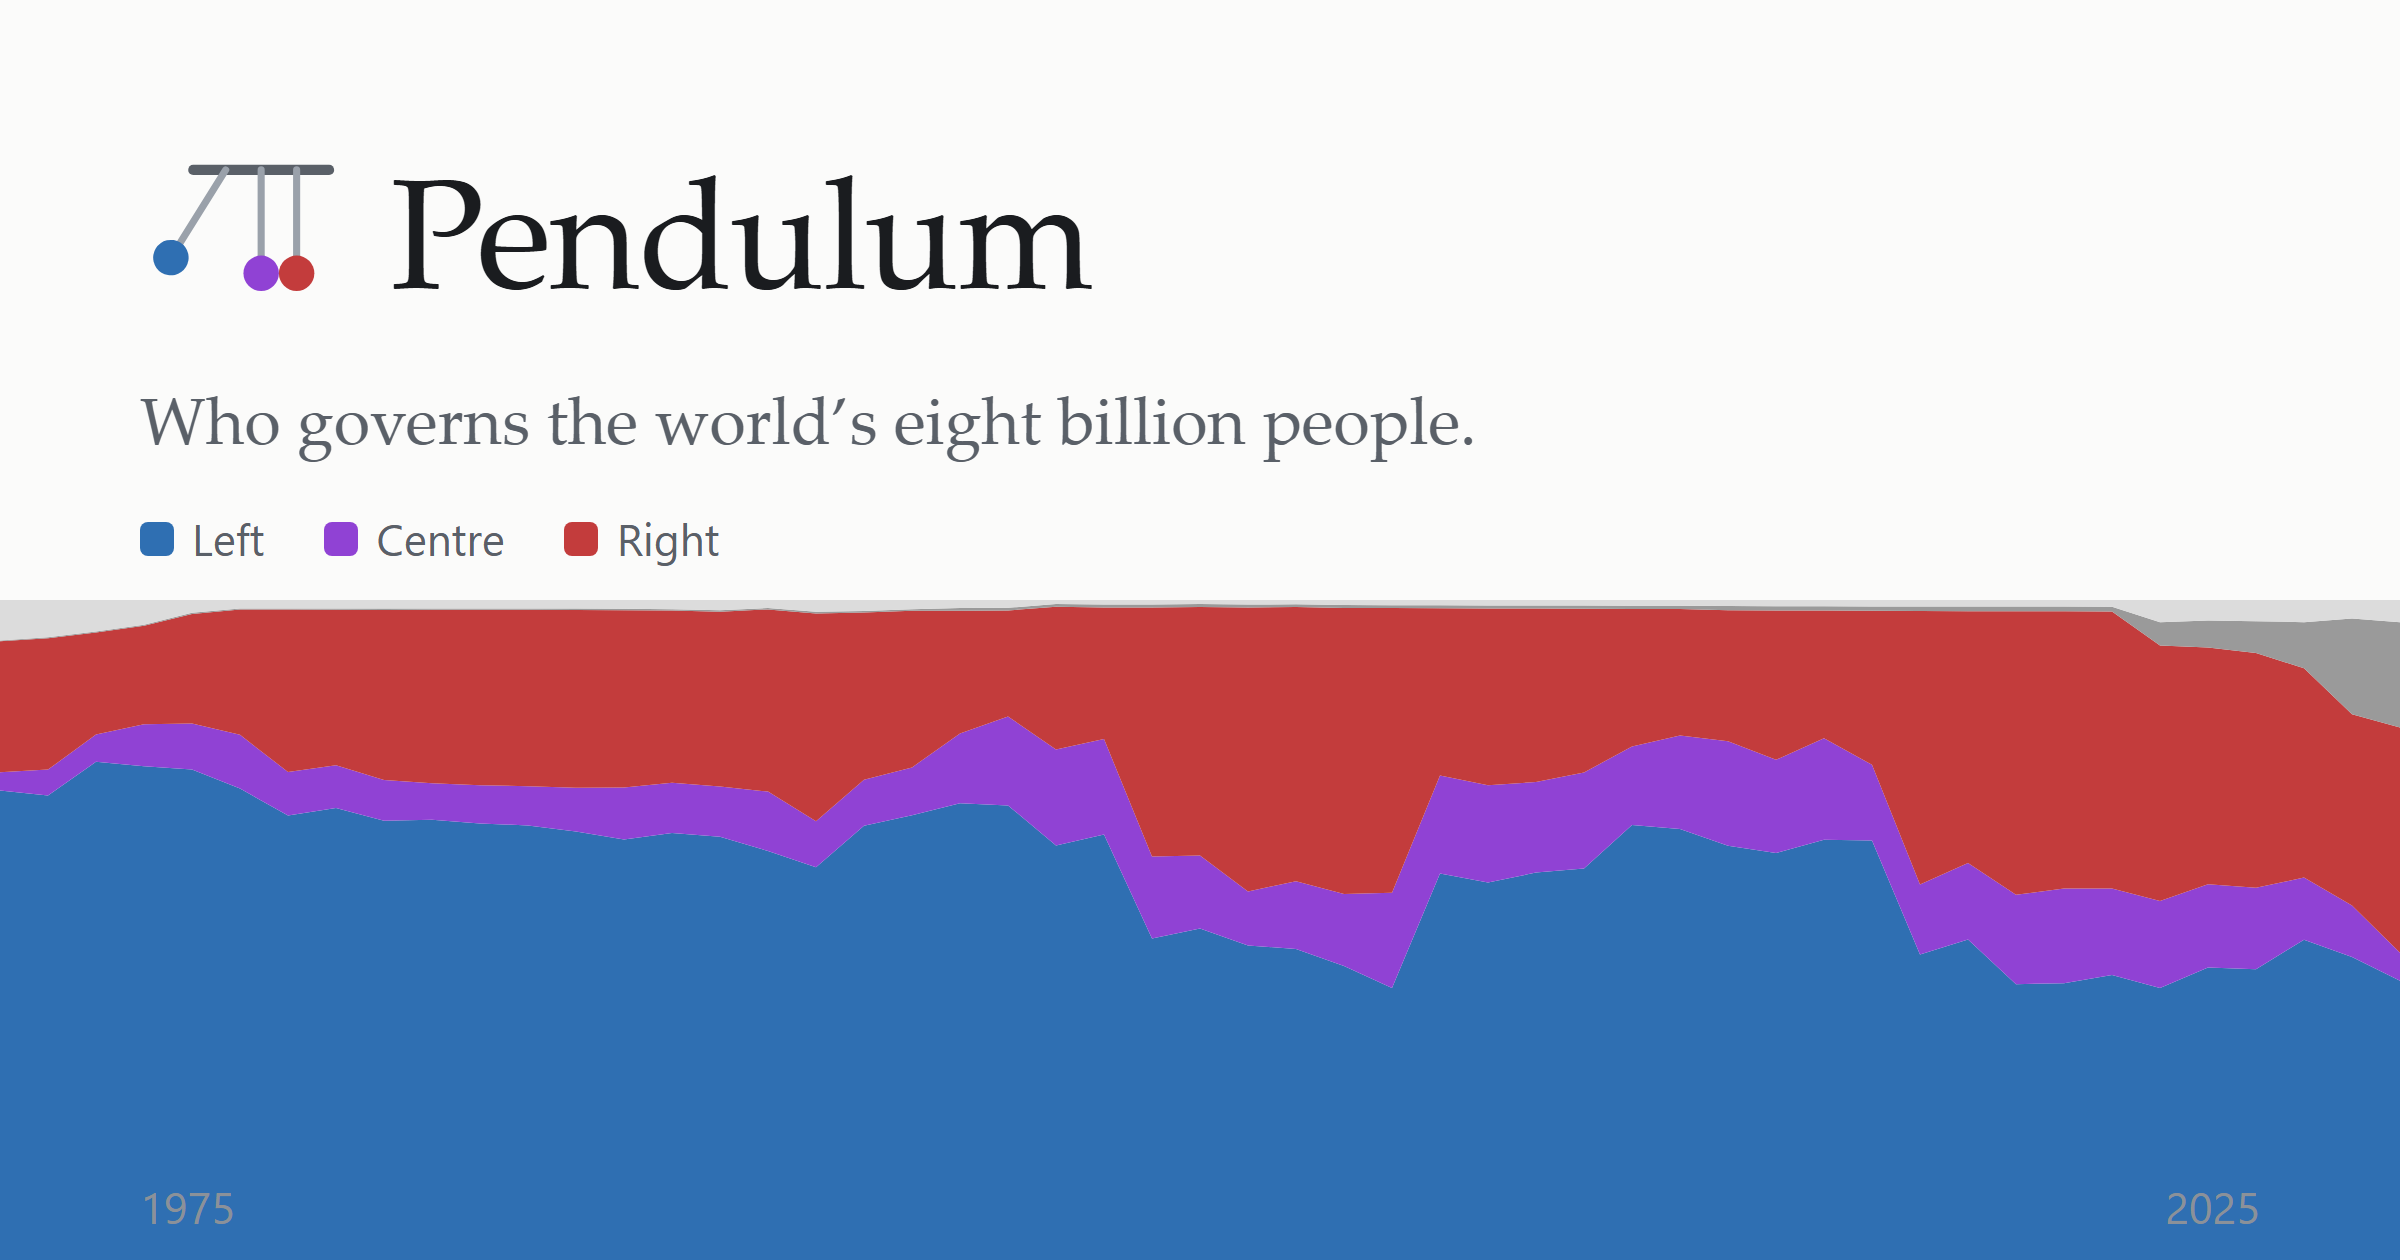
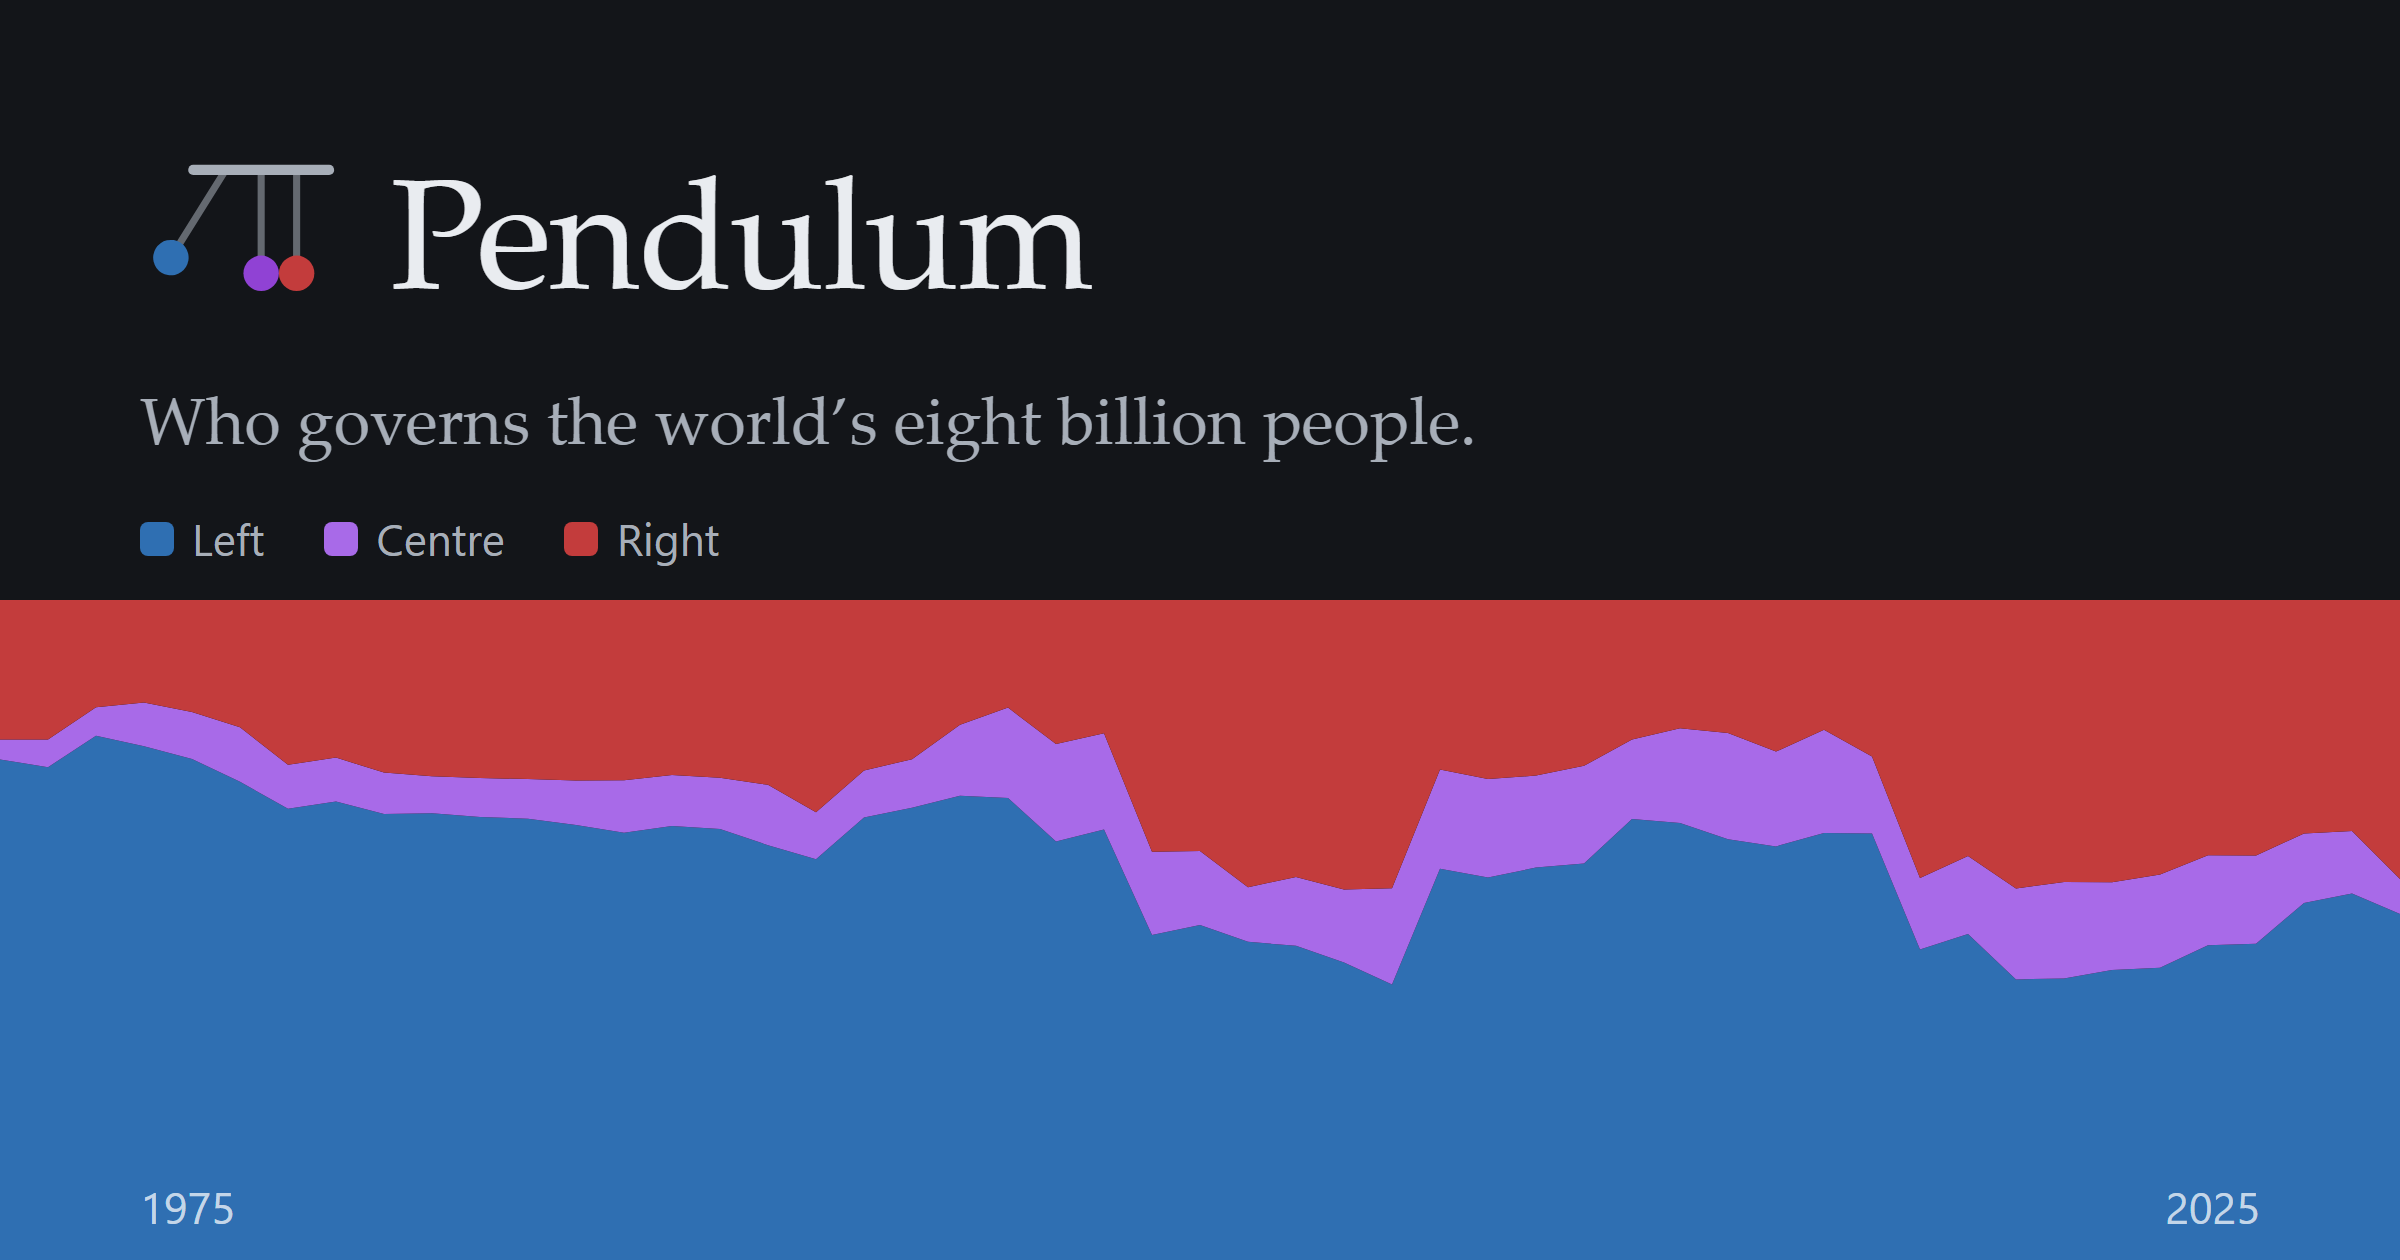
Exclude countries without data by default; dark share card
- The charts now open on the countries that have a reading. A grey band that
  grows as the sources thin out was the first thing a reader saw, and it reads
  as a finding rather than as an absence. "Include" puts it back, and the URL
  records that choice rather than the default.
- Legends follow the control: a swatch for a colour that is nowhere on the
  chart reads as a band the reader has failed to find. The map keeps the full
  key, because every country is painted whether or not it has a reading.
- The link-preview card is dark, using the site's own dark tokens and each
  bucket's colour_dark, so the unfurl matches what a reader lands on. It also
  excludes now, for the same reason.
- Shorter og:description: two lines of a WhatsApp preview, not three.

diff --git a/site/app.js b/site/app.js
@@ -2,7 +2,7 @@
    Charts are hand-rolled SVG so this still runs in five years. */
 
 const DEFAULTS = { group: "world", weight: "by_population", year: null,
-                   mapYear: null, regime: null, missing: "include" };
+                   mapYear: null, regime: null, missing: "exclude" };
 
 /* The two year scrubbers are separate timelines. They used to share one year
    and one player, so pressing play on either animated both, which is two
@@ -72,8 +72,10 @@ const shade = (entry) => (darkMedia.matches && entry.colour_dark) || entry.colou
 /* "Exclude" drops the two grey categories. Where the bands add to the whole
    group the remainder is rescaled, so the chart still reads as shares of the
    countries that have a reading. Where they do not, the bands are simply
-   hidden and the scale is left alone. The default keeps them: a reader has to
-   ask for this. */
+   hidden and the scale is left alone. This is the default: a grey band that
+   grows as the sources thin out is the first thing a reader sees otherwise,
+   and it reads as a finding rather than as an absence. "Include" puts it back
+   for anyone who wants to see how much is missing. */
 const MISSING = new Set(["no_reading", "unresolved", "uncovered"]);
 
 function dropMissing(series, keys, { rescale = true } = {}) {
@@ -124,7 +126,7 @@ function readHash() {
   if (Number.isInteger(mapYear)) state.mapYear = mapYear;
   const regime = params.get("regime");
   if (regime && REGIME_ORDER.includes(regime)) state.regime = regime;
-  if (params.get("missing") === "exclude") state.missing = "exclude";
+  if (params.get("missing") === "include") state.missing = "include";
 }
 
 function writeHash() {
@@ -727,18 +729,26 @@ function render() {
     `Which Way ${group.article}${group.leans_as || group.label} Leans`;
   $("#group-hint").textContent = group.n_members ? `${group.n_members} countries` : "";
 
-  $("#legend").innerHTML = BANDS.map((k) =>
-    `<span><i style="background:${shade(palette[k])}"></i>${palette[k].label}</span>`).join("");
-  $("#legend-mosaic").innerHTML = $("#legend-regime").innerHTML =
-    $("#legend-map").innerHTML = $("#legend").innerHTML;
+  /* Excluding hides the two grey bands, so their keys have to leave the legend
+     with them: a swatch for a colour that is nowhere on the chart reads as a
+     band the reader has failed to find. The map is the exception. Every country
+     has geometry whether or not it has a reading, so it is painted grey either
+     way and keeps the full key. */
+  const swatches = (keys, pal) => keys.map((k) =>
+    `<span><i style="background:${shade(pal[k])}"></i>${pal[k].label}</span>`).join("");
+  const bandKeys = state.missing === "exclude"
+    ? BANDS.filter((k) => !MISSING.has(k)) : BANDS;
+  $("#legend").innerHTML = $("#legend-mosaic").innerHTML =
+    $("#legend-regime").innerHTML = swatches(bandKeys, palette);
+  $("#legend-map").innerHTML = swatches(BANDS, palette);
   $("#legend-lines").innerHTML =
     '<span><svg class="swatch" viewBox="0 0 26 8"><line x1="1" y1="4" x2="25" y2="4" ' +
     'stroke="var(--ink-faint)" stroke-width="1.6" stroke-opacity=".7"/></svg>Yearly</span>' +
     '<span><svg class="swatch" viewBox="0 0 26 8"><line x1="1" y1="4" x2="25" y2="4" ' +
     'stroke="var(--ink)" stroke-width="3"/></svg>Three-year average</span>';
-  $("#legend-spectrum").innerHTML = SPECTRUM.map((k) =>
-    `<span><i style="background:${shade(DATA.palette.spectrum[k])}"></i>` +
-    `${DATA.palette.spectrum[k].label}</span>`).join("");
+  $("#legend-spectrum").innerHTML = swatches(
+    state.missing === "exclude" ? SPECTRUM.filter((k) => !MISSING.has(k)) : SPECTRUM,
+    DATA.palette.spectrum);
   $("#legend-src").innerHTML = SOURCES.map((k) => {
     const s = DATA.palette.sources[k];
     return `<span class="explained" title="${s.note || ""}" tabindex="0">` +

diff --git a/site/index.html b/site/index.html
@@ -9,7 +9,7 @@
 <meta property="og:type" content="website">
 <meta property="og:site_name" content="Charlie Trenorden">
 <meta property="og:title" content="Pendulum: who governs the world's eight billion people">
-<meta property="og:description" content="Fifty years of governments, counted by the people who live under them rather than by country. Left, right and centre across 177 countries since 1975.">
+<meta property="og:description" content="Fifty years of governments on the left-right axis, counted by people rather than countries.">
 <meta property="og:url" content="https://charlietrenorden.com/pendulum/">
 <meta property="og:image" content="https://charlietrenorden.com/pendulum/og-card.png">
 <meta property="og:image:width" content="2400">
@@ -54,8 +54,8 @@
     <div class="control">
       <span class="label">Countries without data</span>
       <div class="segmented" role="radiogroup" aria-label="Countries without data">
-        <button type="button" data-missing="include" role="radio" aria-checked="true">include</button>
-        <button type="button" data-missing="exclude" role="radio" aria-checked="false">exclude</button>
+        <button type="button" data-missing="include" role="radio" aria-checked="false">include</button>
+        <button type="button" data-missing="exclude" role="radio" aria-checked="true">exclude</button>
       </div>
     </div>
   </section>

diff --git a/scripts/make_og_card.py b/scripts/make_og_card.py
@@ -3,6 +3,11 @@
 Drawn from the live data rather than screenshotted, so it cannot drift into
 showing a chart the site no longer has. 2400x1260, matching the card the
 homepage already uses, which is 2x the 1200x630 that the scrapers want.
+
+Dark, because the unfurl sits inside a chat window that is usually dark and a
+white rectangle in a WhatsApp thread reads as a page from somewhere else. The
+tokens are the site's own dark palette, and the bands use each bucket's
+colour_dark where it has one, so the card matches what a reader lands on.
 """
 from __future__ import annotations
 
@@ -15,8 +20,17 @@ ROOT = Path(__file__).resolve().parents[1]
 DATA = json.loads((ROOT / "data" / "out" / "orientation.json").read_text(encoding="utf-8"))
 
 W, H = 1200, 630
-BANDS = ["left", "centre", "right", "no_reading", "unresolved"]
+# The site now excludes countries without a reading by default, so the card
+# shows the same three bands a reader lands on rather than a grey wedge that
+# is not on the page.
+BANDS = ["left", "centre", "right"]
 PAL = DATA["palette"]["buckets"]
+# site/style.css, the prefers-color-scheme: dark block
+BG, INK, INK_SOFT, INK_FAINT = "#131519", "#e9ecf0", "#a7aeb8", "#98a0aa"
+
+def shade(key: str) -> str:
+    """What the site paints this bucket in dark mode."""
+    return PAL[key].get("colour_dark") or PAL[key]["colour"]
 
 series = [r for r in DATA["groups"]["world"]["by_population"] if r["year"] <= 2025]
 years = [r["year"] for r in series]
@@ -27,49 +41,53 @@ CX, CY, CW, CH = 0, 300, W, 330
 sx = lambda y: CX + (y - y0) / (y1 - y0) * CW
 sy = lambda v: CY + (1 - v) * CH
 
+# rescaled over the coded share, matching dropMissing() in site/app.js
+coded = [sum(r[k] or 0 for k in BANDS) for r in series]
+
 bands, base = [], [0.0] * len(series)
 for key in BANDS:
-    top = [base[i] + (series[i][key] or 0) for i in range(len(series))]
+    top = [base[i] + (series[i][key] or 0) / coded[i] for i in range(len(series))]
     pts = ([f"{sx(series[i]['year']):.1f},{sy(top[i]):.1f}" for i in range(len(series))] +
            [f"{sx(series[i]['year']):.1f},{sy(base[i]):.1f}" for i in range(len(series) - 1, -1, -1)])
-    bands.append(f'<polygon points="{" ".join(pts)}" fill="{PAL[key]["colour"]}"/>')
+    bands.append(f'<polygon points="{" ".join(pts)}" fill="{shade(key)}"/>')
     base = top
 
 # the raised ball travels left of x=0, so the viewBox is widened rather than
 # letting it clip against the edge of the mark
-MARK = """<svg viewBox="-9 8 67 48" width="99" height="71">
-  <line x1="9" y1="12" x2="55" y2="12" stroke="#5a6068" stroke-width="3.4" stroke-linecap="round"/>
+MARK = f"""<svg viewBox="-9 8 67 48" width="99" height="71" color="{INK_SOFT}">
+  <line x1="9" y1="12" x2="55" y2="12" stroke="currentColor" stroke-width="3.4" stroke-linecap="round"/>
   <g transform="rotate(32 20 12)">
-    <line x1="20" y1="12" x2="20" y2="41" stroke="#9aa1aa" stroke-width="2.4" stroke-linecap="round"/>
+    <line x1="20" y1="12" x2="20" y2="41" stroke="currentColor" stroke-width="2.4" stroke-linecap="round" opacity=".55"/>
     <circle cx="20" cy="47" r="6" fill="#2f6fb2"/>
   </g>
-  <line x1="32" y1="12" x2="32" y2="41" stroke="#9aa1aa" stroke-width="2.4" stroke-linecap="round"/>
+  <line x1="32" y1="12" x2="32" y2="41" stroke="currentColor" stroke-width="2.4" stroke-linecap="round" opacity=".55"/>
   <circle cx="32" cy="47" r="6" fill="#9042d4"/>
-  <line x1="44" y1="12" x2="44" y2="41" stroke="#9aa1aa" stroke-width="2.4" stroke-linecap="round"/>
+  <line x1="44" y1="12" x2="44" y2="41" stroke="currentColor" stroke-width="2.4" stroke-linecap="round" opacity=".55"/>
   <circle cx="44" cy="47" r="6" fill="#c33c3c"/>
 </svg>"""
 
 KEY = "".join(
-    f'<span><i style="background:{PAL[k]["colour"]}"></i>{PAL[k]["label"]}</span>'
+    f'<span><i style="background:{shade(k)}"></i>{PAL[k]["label"]}</span>'
     for k in ("left", "centre", "right"))
 
 HTML = f"""<!doctype html><meta charset="utf-8">
 <style>
   * {{ margin: 0; box-sizing: border-box; }}
-  body {{ width: {W}px; height: {H}px; background: #fbfbfa; overflow: hidden;
+  body {{ width: {W}px; height: {H}px; background: {BG}; overflow: hidden;
          font-family: "Iowan Old Style","Palatino Linotype",Palatino,Georgia,serif; }}
   .top {{ padding: 62px 70px 0; }}
   .head {{ display: flex; align-items: center; gap: 26px; }}
-  h1 {{ font-size: 78px; letter-spacing: -.015em; color: #1a1c1f; font-weight: 400; }}
-  p {{ margin-top: 20px; font-size: 33px; color: #5a6068; }}
+  h1 {{ font-size: 78px; letter-spacing: -.015em; color: {INK}; font-weight: 400; }}
+  p {{ margin-top: 20px; font-size: 33px; color: {INK_SOFT}; }}
   .key {{ display: flex; gap: 30px; margin-top: 26px;
-         font: 22px/1 -apple-system,"Segoe UI",sans-serif; color: #5a6068; }}
+         font: 22px/1 -apple-system,"Segoe UI",sans-serif; color: {INK_SOFT}; }}
   .key span {{ display: inline-flex; align-items: center; gap: 9px; }}
   .key i {{ width: 17px; height: 17px; border-radius: 4px; display: inline-block; }}
   svg.chart {{ position: absolute; left: 0; top: 0; }}
   .yrs {{ position: absolute; left: 70px; right: 70px; bottom: 16px; display: flex;
          justify-content: space-between;
-         font: 22px/1 -apple-system,"Segoe UI",sans-serif; color: #8b9199; }}
+         font: 22px/1 -apple-system,"Segoe UI",sans-serif;
+         color: rgba(255,255,255,.72); }}
 </style>
 <svg class="chart" width="{W}" height="{H}">{"".join(bands)}</svg>
 <div class="top">
